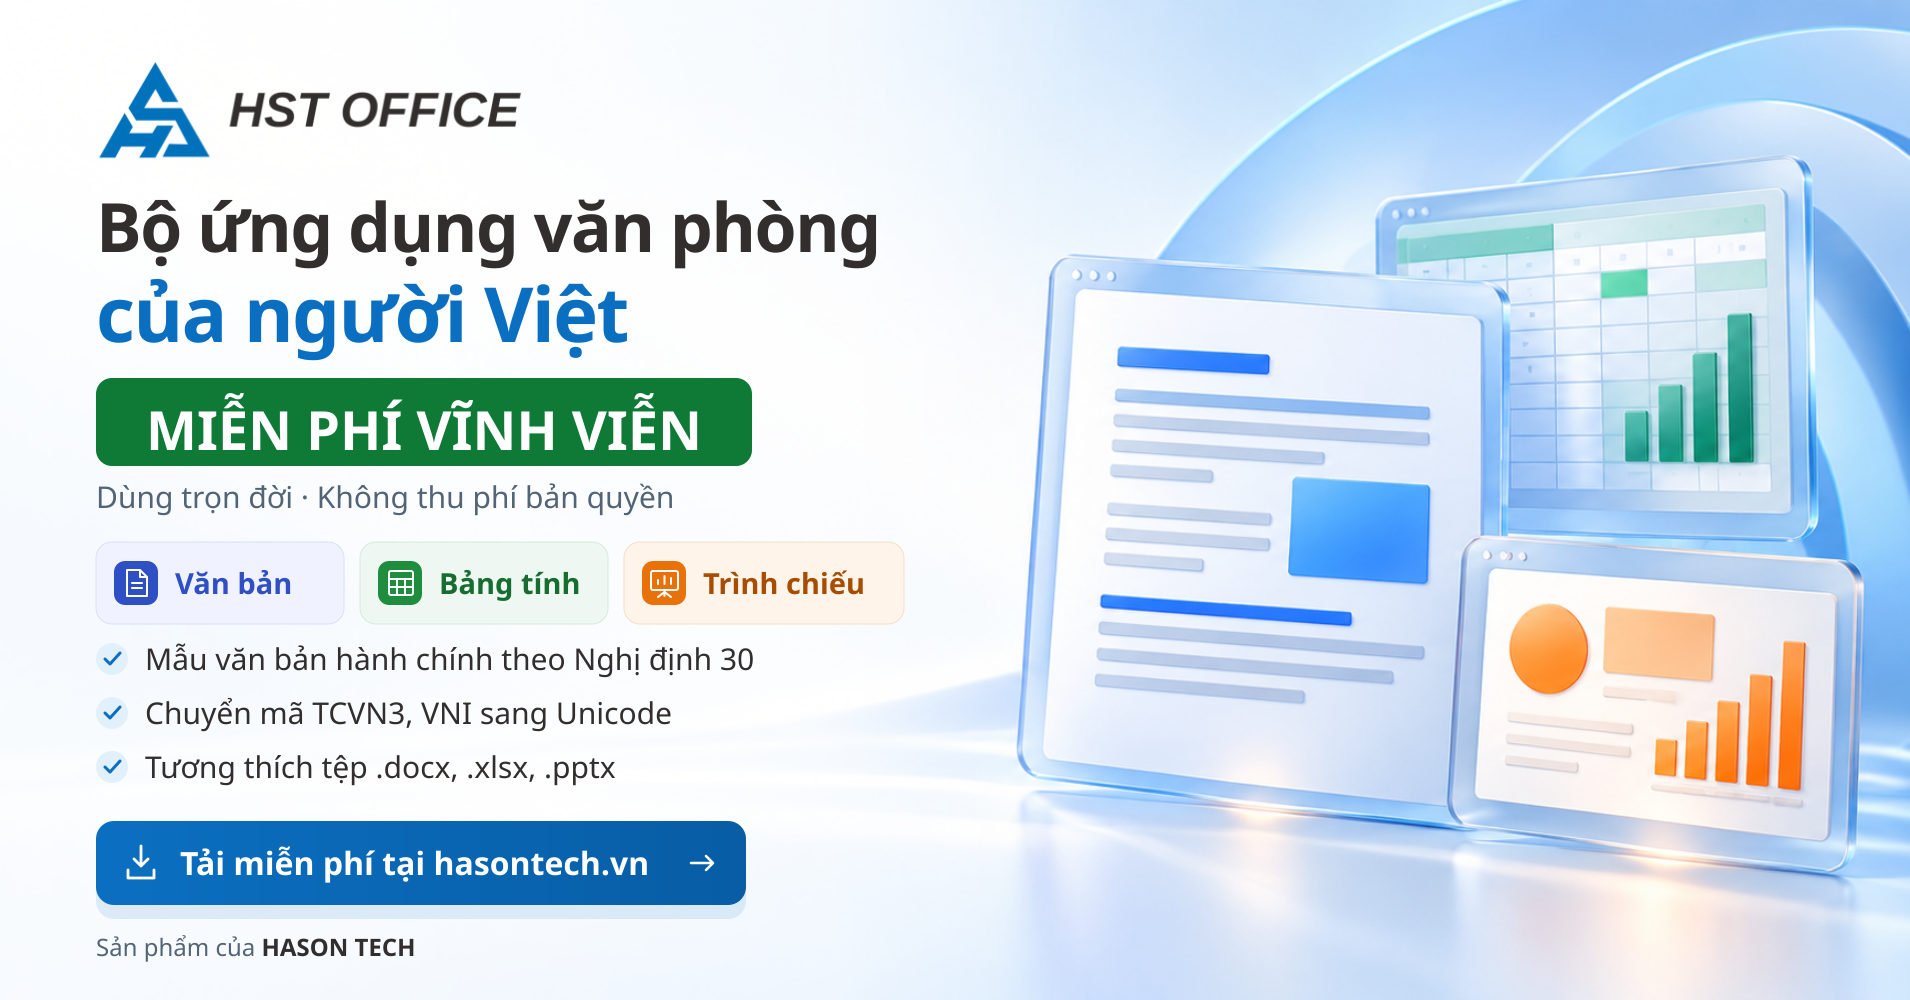
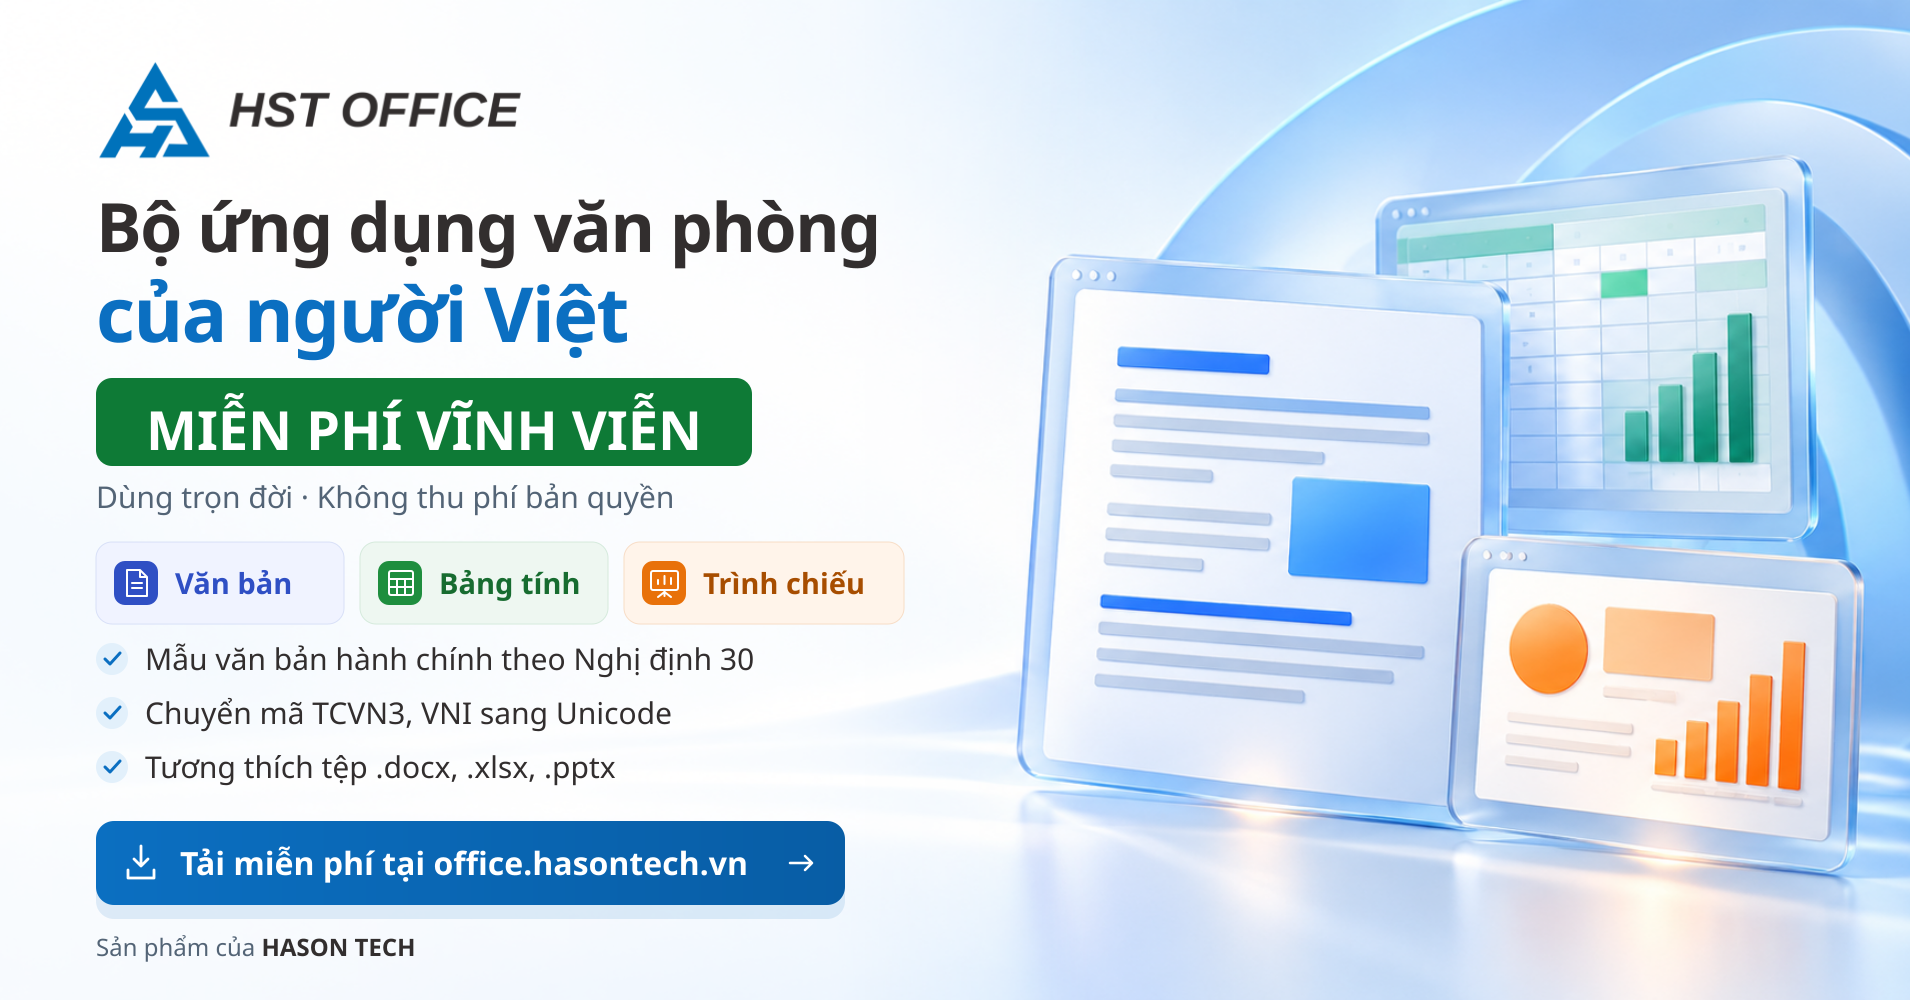
fix(website): share image points downloads to office.hasontech.vn

Changed region(s): [[0.2162, 0.806, 0.4634, 0.93]]

diff --git a/website/office.hasontech.vn/index.html b/website/office.hasontech.vn/index.html
@@ -33,14 +33,14 @@
   <meta property="og:title" content="HST Office – Bộ Office miễn phí vĩnh viễn cho người Việt">
   <meta property="og:description" content="Soạn thảo văn bản, bảng tính, trình chiếu bằng tiếng Việt. Mở, lưu tài liệu văn bản (.doc, .docx), bảng tính (.xls, .xlsx), trình chiếu (.ppt, .pptx); dùng offline, không cần đăng ký. Sản phẩm của HASON TECH.">
   <meta property="og:url" content="https://office.hasontech.vn/">
-  <meta property="og:image" content="https://office.hasontech.vn/assets/img/og-hst-office.jpg?v=4">
+  <meta property="og:image" content="https://office.hasontech.vn/assets/img/og-hst-office.jpg?v=5">
   <meta property="og:image:width" content="1200">
   <meta property="og:image:height" content="628">
   <meta property="og:image:alt" content="HST Office — bộ ứng dụng văn phòng của người Việt, miễn phí vĩnh viễn">
   <meta name="twitter:card" content="summary_large_image">
   <meta name="twitter:title" content="HST Office – Bộ Office miễn phí vĩnh viễn cho người Việt">
   <meta name="twitter:description" content="Soạn thảo văn bản, bảng tính, trình chiếu bằng tiếng Việt. Mở, lưu tài liệu văn bản (.doc, .docx), bảng tính (.xls, .xlsx), trình chiếu (.ppt, .pptx); dùng offline, không cần đăng ký. Sản phẩm của HASON TECH.">
-  <meta name="twitter:image" content="https://office.hasontech.vn/assets/img/og-hst-office.jpg?v=4">
+  <meta name="twitter:image" content="https://office.hasontech.vn/assets/img/og-hst-office.jpg?v=5">
   <meta name="twitter:image:alt" content="HST Office — bộ ứng dụng văn phòng miễn phí vĩnh viễn">
   <link rel="icon" href="/assets/img/favicon.svg?v=1" type="image/svg+xml">
   <link rel="icon" href="/assets/img/favicon-32.png?v=1" type="image/png" sizes="32x32">
